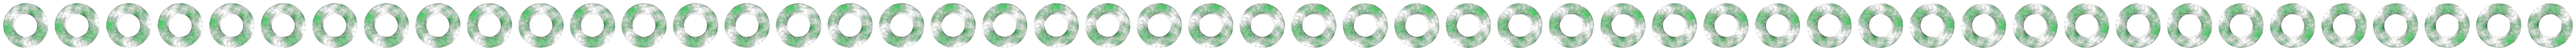
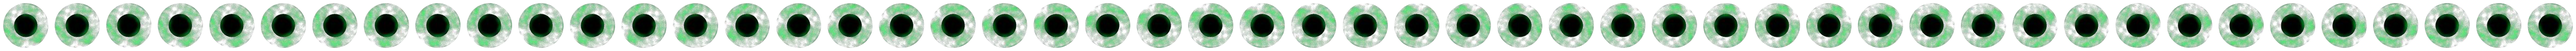
planets work

diff --git a/src/main/webapp/StarDrifter.html b/src/main/webapp/StarDrifter.html
@@ -147,13 +147,13 @@ canvas {
 		<button id="startButton"></button>
 	</div>
 	<!-- preload images -->
-	<img src="spaceship.png" id="spaceship" hidden="true"/>
+	<img src="spacecraft.png" id="spacecraft" hidden="true"/>
 	<img src="blackHole.png" id="blackHole" hidden="true"/>
 	<img src="earthLike.png" id="earthLike" hidden="true"/>
 	<img src="gas.png" id="gas" hidden="true"/>
 	<img src="ice.png" id="ice" hidden="true"/>
 	<img src="rocky.png" id="rocky" hidden="true"/>
-	<img src="star.png" id="star" hidden="true"/>
+	<img src="withRings.png" id="withRings" hidden="true"/>
 	<img src="explosion.png" id="explosion" hidden="true"/>
 	<img src="meteorite.png" id="meteorite" hidden="true"/>
 

diff --git a/src/main/java/gravity/client/core/DefaultSpaceFactory.java b/src/main/java/gravity/client/core/DefaultSpaceFactory.java
@@ -22,6 +22,7 @@ import static gravity.client.core.Body.angleFollowsSpeed;
 import static gravity.client.core.Body.angleIsFixedAt;
 import static gravity.client.core.Phase.constant;
 import static gravity.client.core.Phase.forwardLooping;
+import static gravity.client.core.Phase.backwardLooping;
 import static gravity.client.core.Phase.forwardBackwardLooping;
 import static gravity.client.core.Planet.Type.blackHole;
 import static gravity.client.core.Planet.Type.earthLike;
@@ -29,8 +30,9 @@ import static gravity.client.core.Planet.Type.gas;
 import static gravity.client.core.Planet.Type.ice;
 import static gravity.client.core.Planet.Type.meteorite;
 import static gravity.client.core.Planet.Type.rocky;
-import static gravity.client.core.Planet.Type.star;
+import static gravity.client.core.Planet.Type.withRings;
 import static gravity.client.core.Preconditions.throwIf;
+import static java.lang.Math.PI;
 
 import java.util.ArrayList;
 import java.util.List;
@@ -49,7 +51,7 @@ public final class DefaultSpaceFactory implements SpaceFactory {
 		this.spaceWidth = spaceWidth;
 		this.spaceHeight = spaceHeight;
 
-		this.constellations.add(this::getPlanetConstellation0);
+		// this.constellations.add(this::getPlanetConstellation0);
 		this.constellations.add(this::getPlanetConstellation1);
 		this.constellations.add(this::getPlanetConstellation2);
 		this.constellations.add(this::getPlanetConstellation3);
@@ -89,15 +91,14 @@ public final class DefaultSpaceFactory implements SpaceFactory {
 		space.add(new StaticPlanet(gas, 100, 50,
 				new Position(4 * this.spaceWidth / 7, 5 * this.spaceHeight / 7),
 				angleIsFixedAt(0), forwardLooping(maxPhaseIndex, 0.8)));
-		space.add(new StaticPlanet(star, 100, 50,
+		space.add(new StaticPlanet(withRings, 100, 50,
 				new Position(5 * this.spaceWidth / 7, 5 * this.spaceHeight / 7),
 				angleIsFixedAt(0), forwardLooping(maxPhaseIndex, 0.8)));
 		space.add(new StaticPlanet(blackHole, 100, 50,
 				new Position(6 * this.spaceWidth / 7, 5 * this.spaceHeight / 7),
 				angleIsFixedAt(0), forwardLooping(maxPhaseIndex, 0.8)));
 		space.add(new LoosePlanet(meteorite, 10, 15, new Position(50, this.spaceHeight),
-				new Speed(0, -10), forwardBackwardLooping(maxPhaseIndex, 0.8),
-				this.spaceWidth));
+				new Speed(0, -10), forwardBackwardLooping(18, 0.8), this.spaceWidth));
 
 		return space;
 	}
@@ -126,17 +127,17 @@ public final class DefaultSpaceFactory implements SpaceFactory {
 		final Space space = new Space(this.spaceWidth, this.spaceHeight, null);
 
 		space.add(new StaticPlanet(rocky, 100, 50,
-				new Position(this.spaceWidth / 2, this.spaceHeight / 2), angleIsFixedAt(0),
-				forwardLooping(maxPhaseIndex, 0.8)));
+				new Position(this.spaceWidth / 2, this.spaceHeight / 2),
+				angleIsFixedAt(-PI / 4), forwardLooping(maxPhaseIndex, 0.8)));
 		space.add(new StaticPlanet(ice, 100, 50,
 				new Position(5 * this.spaceWidth / 7, 5 * this.spaceHeight / 7),
 				angleIsFixedAt(0), forwardLooping(maxPhaseIndex, 0.8)));
 		space.add(new StaticPlanet(earthLike, 100, 50,
-				new Position(5 * this.spaceWidth / 7, this.spaceHeight / 7)));
-
+				new Position(5 * this.spaceWidth / 7, this.spaceHeight / 7),
+				angleCirculatesAt(-0.1), forwardLooping(maxPhaseIndex, 0.8)));
 		space.add(new LoosePlanet(meteorite, 10, 15,
 				new Position(100, this.spaceHeight + 200), new Speed(5, -30),
-				forwardBackwardLooping(maxPhaseIndex, 0.8), this.spaceWidth * 2));
+				forwardBackwardLooping(18, 0.8), this.spaceWidth * 2));
 
 		return space;
 	}
@@ -150,7 +151,7 @@ public final class DefaultSpaceFactory implements SpaceFactory {
 
 		space.add(new StaticPlanet(gas, 100, 50,
 				new Position(this.spaceWidth / 4, this.spaceHeight / 2), angleIsFixedAt(0),
-				forwardLooping(maxPhaseIndex, 0.8)));
+				backwardLooping(maxPhaseIndex, 0.8)));
 		space.add(new StaticPlanet(blackHole, 5000, 50,
 				new Position(5 * this.spaceWidth / 7, 5 * this.spaceHeight / 7),
 				angleIsFixedAt(0), forwardLooping(maxPhaseIndex, 0.8)));
@@ -166,18 +167,18 @@ public final class DefaultSpaceFactory implements SpaceFactory {
 		final Space space = new Space(this.spaceWidth, this.spaceHeight, null);
 
 		space.add(new StaticPlanet(gas, 100, 50,
-				new Position(this.spaceWidth / 2, this.spaceHeight / 2), angleIsFixedAt(0),
+				new Position(this.spaceWidth / 2, this.spaceHeight / 2), angleIsFixedAt(PI/8),
 				forwardLooping(maxPhaseIndex, 0.8)));
 		space.add(new StaticPlanet(ice, 100, 50,
 				new Position(5 * this.spaceWidth / 7, 5 * this.spaceHeight / 7),
-				angleIsFixedAt(0), forwardLooping(maxPhaseIndex, 0.8)));
+				angleCirculatesAt(0.03), forwardLooping(maxPhaseIndex, 0.8)));
 		space.add(new StaticPlanet(earthLike, 100, 50,
 				new Position(5 * this.spaceWidth / 7, this.spaceHeight / 7),
-				angleIsFixedAt(0), forwardLooping(maxPhaseIndex, 0.8)));
+				angleIsFixedAt(-PI/3), forwardLooping(maxPhaseIndex, 0.8)));
 		space.add(new StaticPlanet(blackHole, 1000, 50,
 				new Position(2 * this.spaceWidth / 7, this.spaceHeight / 7),
 				angleIsFixedAt(0), forwardLooping(maxPhaseIndex, 0.8)));
-		space.add(new StaticPlanet(star, 1000, 50,
+		space.add(new StaticPlanet(withRings, 1000, 50,
 				new Position(9 * this.spaceWidth / 10, this.spaceHeight / 2),
 				angleIsFixedAt(0), forwardLooping(maxPhaseIndex, 0.8)));
 
@@ -209,11 +210,11 @@ public final class DefaultSpaceFactory implements SpaceFactory {
 
 		final Space space = new Space(this.spaceWidth, this.spaceHeight, null);
 
-		space.add(new StaticPlanet(blackHole, 5000, 50,
+		space.add(new StaticPlanet(blackHole, 4000, 50,
 				new Position(this.spaceWidth / 2, this.spaceHeight / 2), angleIsFixedAt(0),
 				forwardLooping(maxPhaseIndex, 0.8)));
-		space.add(new Planet(ice, 100, 50,
-				new Position(this.spaceWidth / 2, this.spaceHeight / 7), new Speed(-60, 0),
+		space.add(new Planet(ice, 30, 50,
+				new Position(this.spaceWidth / 2, this.spaceHeight / 7), new Speed(-40, 0),
 				angleIsFixedAt(0), forwardLooping(maxPhaseIndex, 0.8)));
 
 		return space;

diff --git a/src/main/java/gravity/client/ui/SpaceCanvas.java b/src/main/java/gravity/client/ui/SpaceCanvas.java
@@ -229,7 +229,7 @@ public final class SpaceCanvas {
 
 		this.context.translate(craft.getCenter().getX(), craft.getCenter().getY());
 		this.context.rotate(craft.getAngle());
-		final ImageElement image = getImage("spaceship");
+		final ImageElement image = getImage("spacecraft");
 		final double size = image.getHeight();
 		this.context.drawImage(image, craft.getPhase().getIndex() * size, 0, size, size,
 				-size / 2, -size / 2, size, size);

diff --git a/src/main/java/gravity/client/core/Planet.java b/src/main/java/gravity/client/core/Planet.java
@@ -29,7 +29,7 @@ public class Planet extends Body {
 	 *
 	 ***************************************************************************/
 	public enum Type {
-		rocky, earthLike, gas, ice, star, blackHole, meteorite;
+		rocky, earthLike, gas, ice, withRings, blackHole, meteorite;
 	}
 
 	/****************************************************************************
